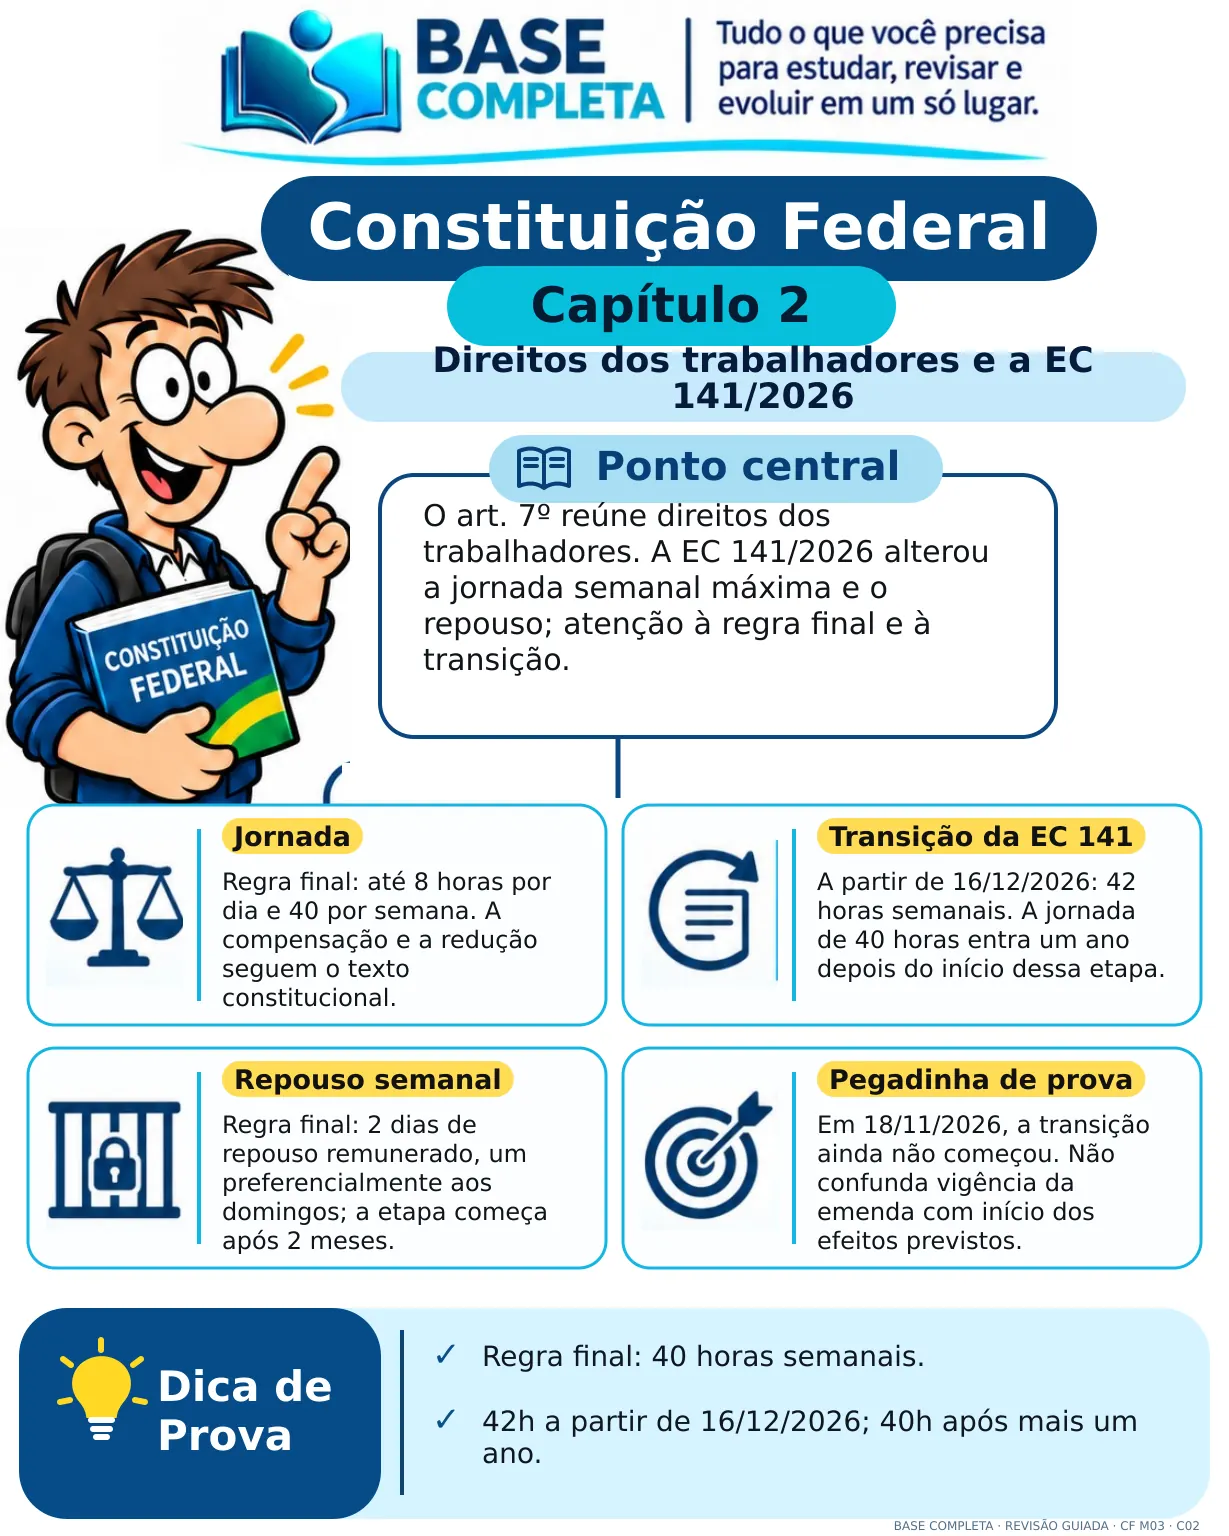
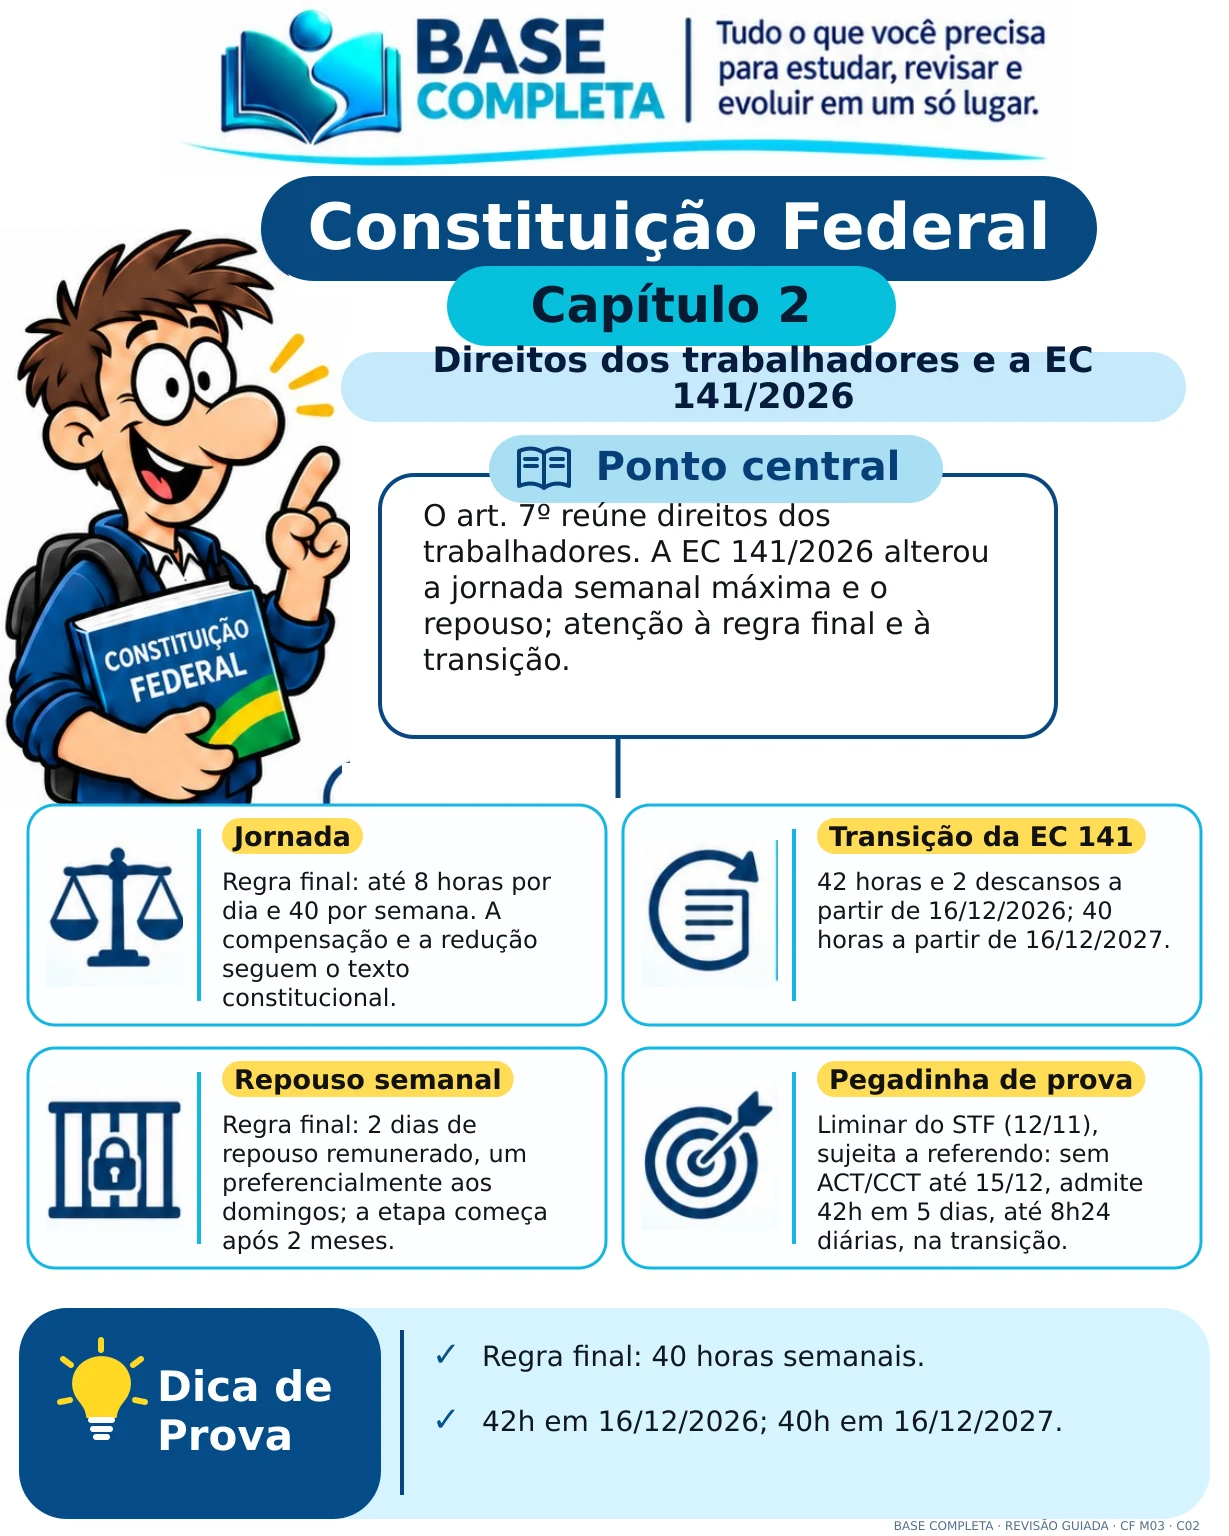
Update CF M03 worker transition review

diff --git a/docs/CF-M03-REVISAO-GUIADA-ARTES-20261118.md b/docs/CF-M03-REVISAO-GUIADA-ARTES-20261118.md
@@ -7,11 +7,24 @@
 
 Foram identificados 12 capítulos na Revisão Guiada real do M3. Foram produzidas 12 artes em PNG de 1229 × 1536 px, com os títulos originais e numeração de capítulo correspondente.
 
+1. Direitos sociais: por que a Constituição os protege
+2. Direitos dos trabalhadores e a EC 141/2026
+3. Liberdade sindical, greve e representação
+4. Nacionalidade: brasileiro nato e naturalizado
+5. Cargos privativos e extradição
+6. Perda de nacionalidade e EC 131/2023
+7. Soberania popular e formas de participação
+8. Quem vota: obrigatório, facultativo e inalistável
+9. Elegibilidade e idades mínimas
+10. Reeleição, desincompatibilização e inelegibilidades
+11. Perda, suspensão e anualidade eleitoral
+12. Partidos políticos: criação, registro e coligações
+
 As imagens reutilizam recortes da logomarca, do personagem e dos ícones visíveis nas referências anexadas. O layout foi montado por template SVG programático e conteúdo separado em JSON; não foram criadas ilustrações novas por IA. A Central recebe WebP otimizados, com carregamento `lazy` e dimensões declaradas.
 
 ## Revisão jurídica
 
-Os resumos foram conferidos com o conteúdo vigente da Constituição Federal. O capítulo 2 foi revisado para destacar a EC 141, de 16/10/2026: jornada final de 40 horas semanais, etapa de 42 horas após dois meses da publicação (16/12/2026) e repouso semanal de dois dias na forma e transição previstas pela emenda. A arte indica que a transição ainda não havia começado em 18/11/2026, data local da solicitação.
+Os resumos foram conferidos com o conteúdo vigente da Constituição Federal. O capítulo 2 registra a EC 141/2026: etapa de 42 horas e dois repousos semanais a partir de 16/12/2026 e limite de 40 horas a partir de 16/12/2027. Após revisão final, a arte também passou a mencionar a liminar do STF de 12/11/2026, sujeita a referendo do Plenário: na falta de ACT/CCT até 15/12, admite distribuir as 42 horas em cinco dias de até 8h24 durante a transição.
 
 A legislação original da Revisão Guiada não foi editada; a atualização incorpora somente as imagens após cada capítulo.
 
@@ -31,10 +44,16 @@ A migração `migrations/cf-m03-guided-infographics-20261118.sql` altera somente
 
 Publicação concluída em 18/11/2026:
 
-- Código e imagens estáticas enviados à branch `main` do repositório; commit de produção `f5ad4d6b62a99ac20e8edad881e9f31d8df09215`.
+- Código e imagens estáticas enviados à branch `main` do repositório; deploy final da Vercel concluído no ambiente de produção.
+- A arte C02 foi atualizada para incluir a liminar do STF de 12/11/2026 e republicada junto aos demais arquivos do M3.
 - Deploy da Vercel concluído com status `READY` no ambiente de produção.
 - Migração aplicada na branch de produção do Neon. `reader:19pwkh3` passou da revisão 5 para a 6 e recebeu 12 figuras; a revisão anterior foi preservada no histórico.
 - Conferência pós-publicação: 12 seções de capítulo e 12 artes no conteúdo do M3. Os arquivos estão sob autenticação da Central e são carregados na sessão dos alunos.
 - Nenhum outro módulo foi alterado pela migração.
 
-![Prévia das 12 artes CF M03](../artes/cf-m03/previa-contato.png)
+Fontes oficiais para a atualização do capítulo 2:
+
+- [Constituição Federal — Portal da Legislação](https://www4.planalto.gov.br/legislacao/legis-federal/constituicao)
+- [Emenda Constitucional nº 141/2026 — Câmara dos Deputados](https://www2.camara.leg.br/legin/fed/emecon/2026/emendaconstitucional-141-16-outubro-2026-800062-publicacaooriginal-181622-pl.html)
+- [Decisão liminar do STF sobre a transição](https://noticias.stf.jus.br/postsnoticias/stf-mantem-regra-de-transicao-para-implementacao-da-jornada-5x2/)
+

diff --git a/artes/cf-m03/README.md b/artes/cf-m03/README.md
@@ -23,9 +23,11 @@ O script gera os SVGs de trabalho e os PNGs finais. O texto de cada arte vem de 
 
 ## Precisão jurídica
 
-Os resumos foram conferidos com a Constituição Federal e a Emenda Constitucional nº 141, de 16 de outubro de 2026. A arte do capítulo 2 registra a fase de transição prevista para começar em 16 de dezembro de 2026; não altera a redação original da Revisão Guiada.
+Os resumos foram conferidos com a Constituição Federal, a Emenda Constitucional nº 141/2026 e a liminar do STF de 12/11/2026, sujeita a referendo do Plenário. A arte do capítulo 2 registra as datas da transição constitucional e a decisão provisória sobre a distribuição das 42 horas na falta de ACT/CCT; não altera a redação original da Revisão Guiada.
 
 Fontes oficiais:
 
 - [Constituição Federal — Portal da Legislação](https://www4.planalto.gov.br/legislacao/legis-federal/constituicao)
 - [Resenha diária da legislação — outubro de 2026](https://www4.planalto.gov.br/legislacao/legislacao/portal-legis/resenha-diaria/outubro-resenha-diaria.html)
+- [Emenda Constitucional nº 141/2026 — publicação original](https://www2.camara.leg.br/legin/fed/emecon/2026/emendaconstitucional-141-16-outubro-2026-800062-publicacaooriginal-181622-pl.html)
+- [Liminar do STF sobre a transição](https://noticias.stf.jus.br/postsnoticias/stf-mantem-regra-de-transicao-para-implementacao-da-jornada-5x2/)
